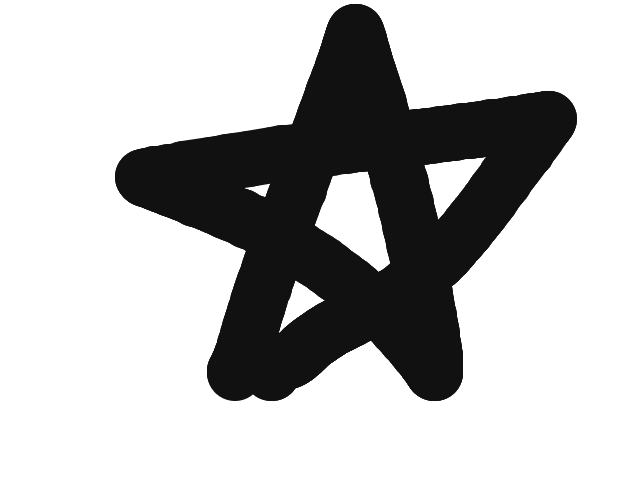
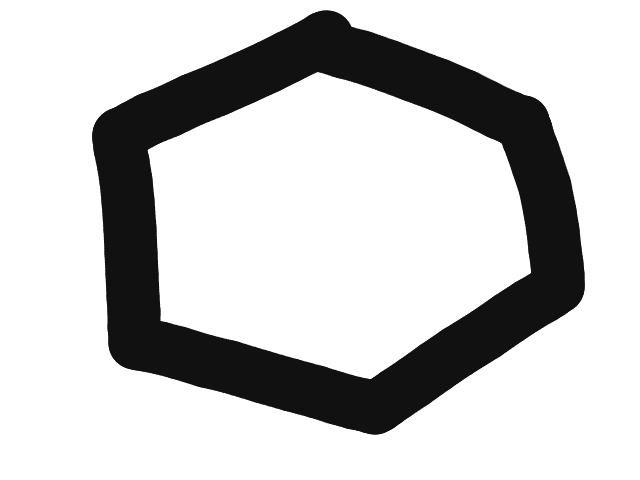
deployed

diff --git a/artistiq/classifier/static/classifier/demo.js b/artistiq/classifier/static/classifier/demo.js
@@ -240,7 +240,7 @@ const canvas = document.getElementById('draw');
     formData.append("image", blob, "drawing.png");
 
     try {
-        const response = await fetch("http://localhost:9000/predict/", {
+        const response = await fetch("https://artistiq.shivaanshbhatia.com/predict/", {
             method: "POST",
             body: formData
         });

diff --git a/artistiq/artistiq/settings.py b/artistiq/artistiq/settings.py
@@ -11,6 +11,7 @@ https://docs.djangoproject.com/en/5.2/ref/settings/
 """
 
 from pathlib import Path
+import os
 
 # Build paths inside the project like this: BASE_DIR / 'subdir'.
 BASE_DIR = Path(__file__).resolve().parent.parent
@@ -42,6 +43,8 @@ INSTALLED_APPS = [
 ]
 
 MIDDLEWARE = [
+    'django.middleware.security.SecurityMiddleware',
+    'whitenoise.middleware.WhiteNoiseMiddleware',
     'corsheaders.middleware.CorsMiddleware',
     'django.middleware.common.CommonMiddleware',
     'django.middleware.security.SecurityMiddleware',
@@ -118,8 +121,10 @@ USE_TZ = True
 # Static files (CSS, JavaScript, Images)
 # https://docs.djangoproject.com/en/5.2/howto/static-files/
 
-STATIC_URL = 'static/'
+STATIC_URL = '/static/'
+STATIC_ROOT = os.path.join(BASE_DIR, 'staticfiles')
 
+STATICFILES_STORAGE = 'whitenoise.storage.CompressedManifestStaticFilesStorage'
 # Default primary key field type
 # https://docs.djangoproject.com/en/5.2/ref/settings/#default-auto-field
 
